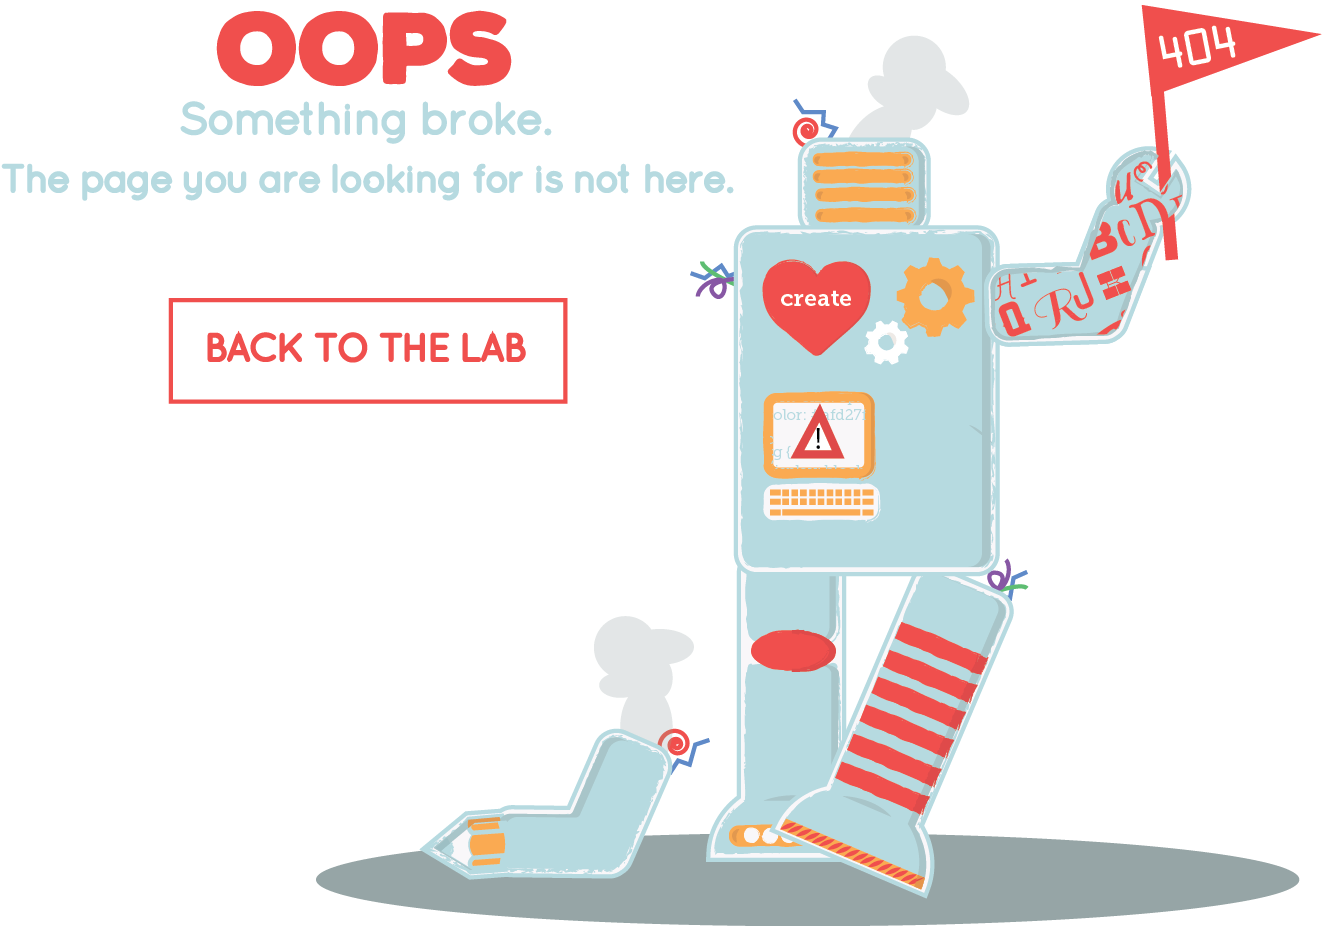
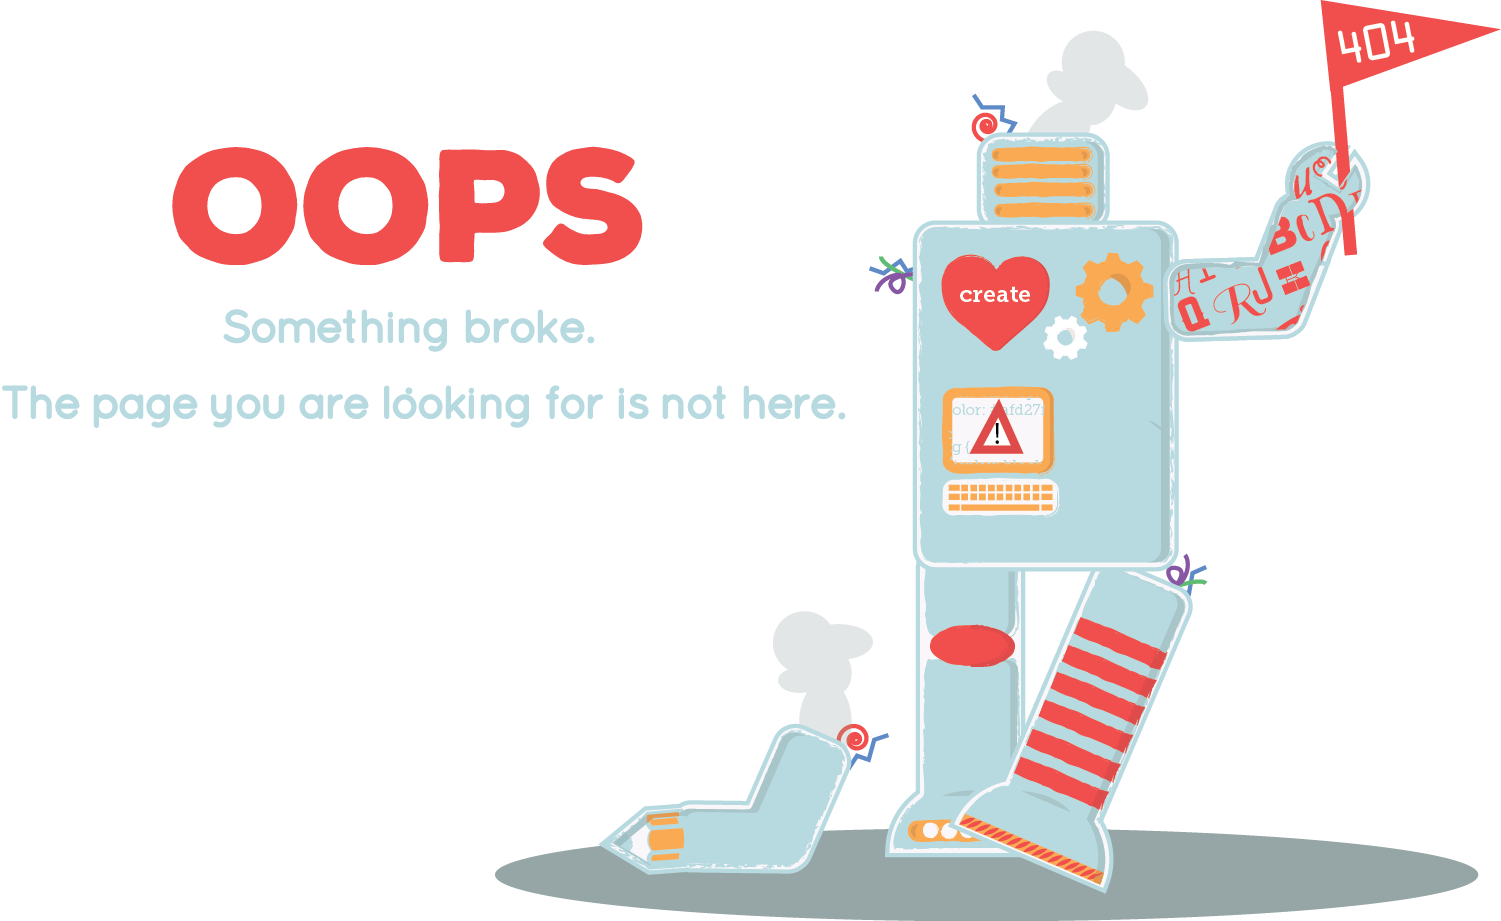
changed 404

Changed region(s): [[0.0, 0.0, 1.0, 1.0], [0.7753, 0.9729, 0.8994, 1.0], [0.8684, 0.9121, 0.9614, 0.9425]]

diff --git a/404.html b/404.html
@@ -14,21 +14,10 @@ permalink: 404.html
 </header>
 
 <main>
-  <div class="image">
-    <img class="404" src="img/404.png" alt="broken robot">
+  <div class="link">
+    <img src="{{site.baseurl}}/img/404.png" width="800" height="500" alt="broken robot">
       <a id="404"></a>
   </div>
 </main>
 
-<footer>
-  <div class="contact">
-    <a id="contact"></a>
-    <a href="mailto:shannonhawn@hotmail.com"><img class="social" src="img/email.svg"></a>
-    <a href="https://ca.linkedin.com/in/shannonhawn"><img class="social" src="img/linkedin.svg"></a>
-    <a href="https://www.instagram.com/shannonsauve_design/"><img class="social" src="img/insta.svg"></a>
-    <a href="https://www.behance.net/hawnsauve/"><img class="social" src="img/be.svg"></a>
-      <div class="top">
-        <a href="#nav" id="top">TOP</a>
-      </div>
-  </div>
 </footer>

diff --git a/css/main.css b/css/main.css
@@ -43,12 +43,14 @@ main{
   padding-top: 3em;
 }
 
-.404{
-  width: 50%;
+.link{
+  width: 20%;
   display: block;
   text-align: center;
   margin: auto;
   padding-top: 1em;
+  background-color: white;
+  padding-left: 10%;
 }
 
 .about{
